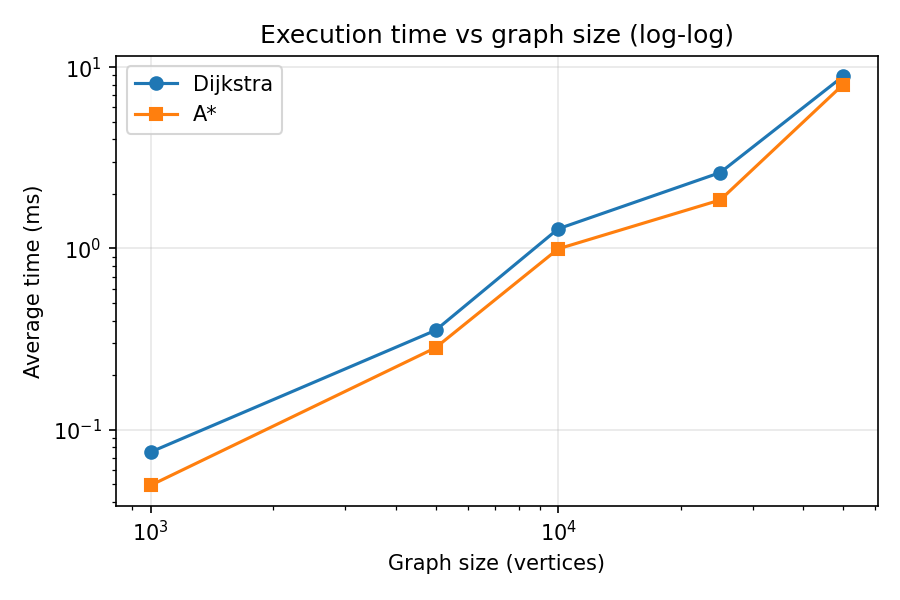
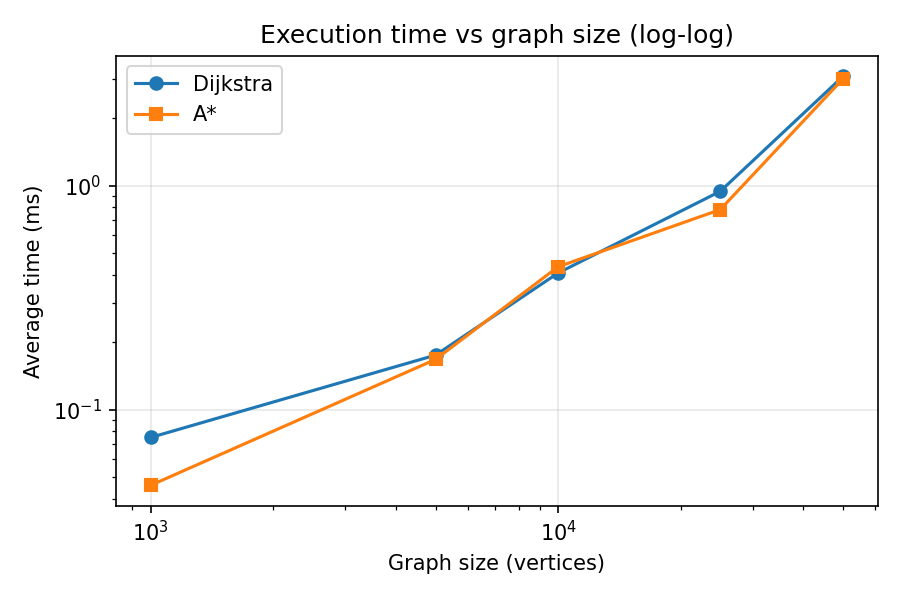
Add gitignore, readme

diff --git a/README.md b/README.md
@@ -1,0 +1,121 @@
+# Shortest-Path Planning in a Large-Scale Road Network (Dijkstra vs A\*)
+
+This project compares Dijkstra's algorithm and A\* on subgraphs of a real road network (San Francisco Bay Area, DIMACS 9th Challenge). Both algorithms are implemented from scratch in C++ using a min-priority queue and an adjacency-list graph. No library shortest-path routines are used.
+
+## Dataset
+
+- **Name:** USA road network, San Francisco Bay Area (`BAY`), distance graph
+- **Source:** 9th DIMACS Implementation Challenge, Shortest Paths (2005-2006)
+  - Download page: http://www.diag.uniroma1.it/challenge9/download.shtml
+- **Files used:**
+  - `USA-road-d.BAY.gr.gz`: arcs with distance weights
+  - `USA-road-d.BAY.co.gz`: node coordinates (longitude, latitude in units of 10^-6 degrees)
+- **Full graph:** 321,270 vertices, 800,172 directed arcs
+- **Graph model:** vertex = road intersection or endpoint, edge = directed road segment, weight = road distance from the distance graph
+
+## Repository structure
+
+```
+README.md
+requirements.txt
+preprocessing.py     # parses DIMACS files, builds subgraphs, checks heuristic scale
+main.cpp          # Dijkstra and A* implementation and benchmark
+analysis.py        # summary tables and plots
+results/          # results.csv, paths.csv, summary tables, plots/
+report/           # written report
+```
+
+## Requirements
+
+- **Python:** 3.13.14 (tested with this version)
+- **Python packages:** `pip install -r requirements.txt` (numpy, pandas, matplotlib, tabulate)
+- **C++ compiler with C++17 support:** g++ 15.2.0(MinGW-W64)
+- **OS:** Windows 11
+
+## How to run
+
+Run all commands from the project root.
+
+### 1. Get the dataset
+
+Download `USA-road-d.BAY.gr.gz` and `USA-road-d.BAY.co.gz` from the page above and place them in the project root. You may extract them (giving `.gr` and `.co`) or leave them compressed. `preprocessing.py` reads both forms.
+
+### 2. Preprocess
+
+```
+python preprocessing.py --gr USA-road-d.BAY.gr --co USA-road-d.BAY.co --out data
+```
+
+This writes, for each size N(number of vertices) in {1000, 5000, 10000, 25000, 50000}:
+
+- `data/bay_N.edges.csv`: columns `u,v,w` (0-indexed, renumbered, directed arcs)
+- `data/bay_N.coords.csv`: columns `id,lon,lat` (degrees)
+
+and `data/stats.csv` with vertices, arcs, average out-degree and maximum out-degree. It also prints the heuristic scale `min(w / haversine)` over all arcs.
+
+### 3. Compile and run the algorithms
+
+Visual Studio (x64 Native Tools Command Prompt):
+
+g++ (Linux, macOS, MinGW):
+
+```
+g++ -O2 -std=c++17 main.cpp -o sp
+./sp data results 7.02
+```
+
+Arguments: `<data directory> <output directory> <heuristic scale>`. Run it from the folder that contains `data/`. Use optimization (`/O2` or `-O2`), since it affects the timings.
+
+Output: `results/results.csv` (one row per query and algorithm) and `results/paths.csv` (the complete vertex sequence of every path).
+
+### 4. Analyze
+
+```
+python analysis.py --results results --data data
+```
+
+Output in `results/`: `summary.csv`, `summary.md` (the experiment table), `graph_stats.md` and `plots/` (time, vertices explored, edges examined, and a log-log time plot).
+
+Approximate run times on my machine:
+
+- preprocessing.py: 4.7651796 seconds
+- main.cpp: 8.0545512 seconds
+- analysis.py: 12.0804854 seconds
+
+## Preprocessing details
+
+- DIMACS node IDs are 1-indexed and are shifted to 0-indexed.
+- Coordinates are integers in units of 10^-6 degrees and are divided by 10^6 to give degrees.
+- Subgraphs are the first N vertices reached by BFS from a fixed seed node (0 by default), following arc direction. Only arcs with both endpoints inside the set are kept, and vertices are renumbered 0..N-1.
+- The edge weight is the road distance from the distance graph. Unit: The DIMACS documentation describes the distance weights as metres. Measured against haversine distances computed from the coordinate file, however, w / haversine(m) has a median of 9.99 (1st-99th percentile 9.98-10.01), so the weights are approximately in units of 0.1 m. All reported costs are in these units.
+- Edges are directed. Reported degrees are out-degrees of directed arcs.
+
+## Reproducibility
+
+- BFS seed node: 0 (`--seed` in `preprocessing.py`).
+- Query pairs: generated with `mt19937` seeded with `42 + graph size`, five reachable pairs per size. Unreachable pairs are skipped and counted.
+- A* heuristic: `h(v) = 7.02 * haversine(v, destination)`. The scale 7.02 is `min(w / haversine)` over all arcs (measured 7.0284), rounded down. By construction the heuristic never overestimates and is consistent.
+- Costs, paths, vertices explored and edges examined are deterministic and should match exactly across machines. Execution times depend on hardware.
+- Machine used: CPU: 12th Gen Intel(R) Core(TM) i5-12450HX, RAM:16.0 GB
+
+## Metric definitions
+
+- **Vertices explored:** vertices settled (popped from the queue and not stale) before the destination is reached.
+- **Edges examined:** outgoing edges looked at from settled vertices.
+- **Execution time:** wall-clock time per query, including allocating the distance and visited arrays.
+
+## Expected output (sanity check)
+
+- Full graph: 321,270 vertices and 800,172 arcs.
+- Each subgraph has exactly the requested number of vertices.
+- `analysis.py` reports `Pairs where costs differ: 0`.
+
+## Troubleshooting
+
+- **File not found:** check your working directory and the file names you pass to `--gr` and `--co`.
+- **C++ program cannot open CSV files:** run it from the folder that contains `data/`.
+- **Editor shows errors in standard headers:** this is an IntelliSense issue. Trust the compiler output.
+
+## Citation
+
+9th DIMACS Implementation Challenge, Shortest Paths (2005-2006). http://www.diag.uniroma1.it/challenge9/
